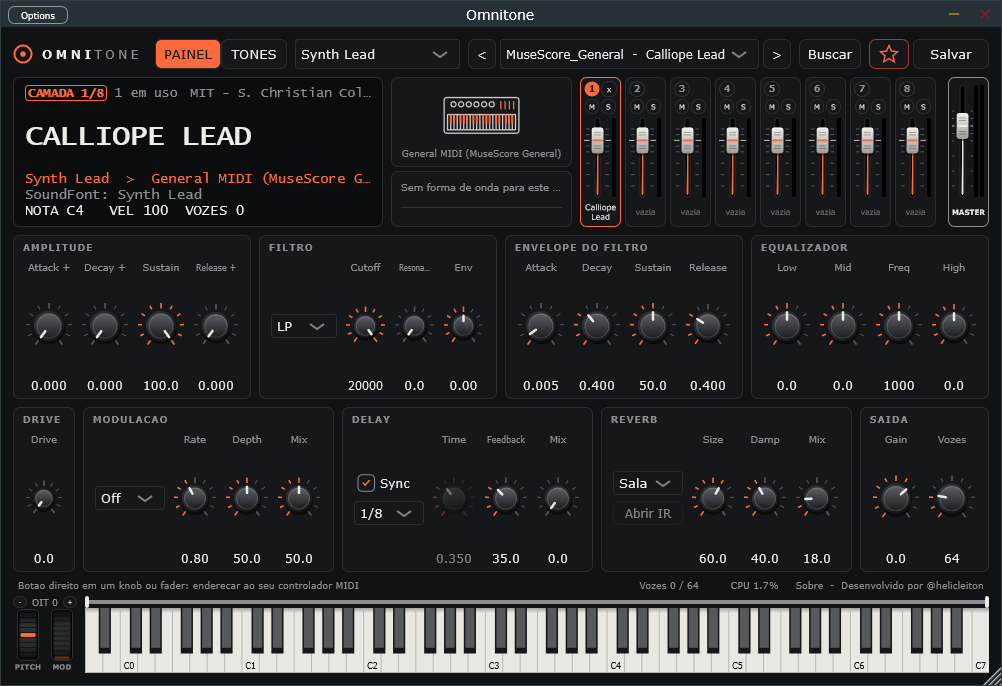
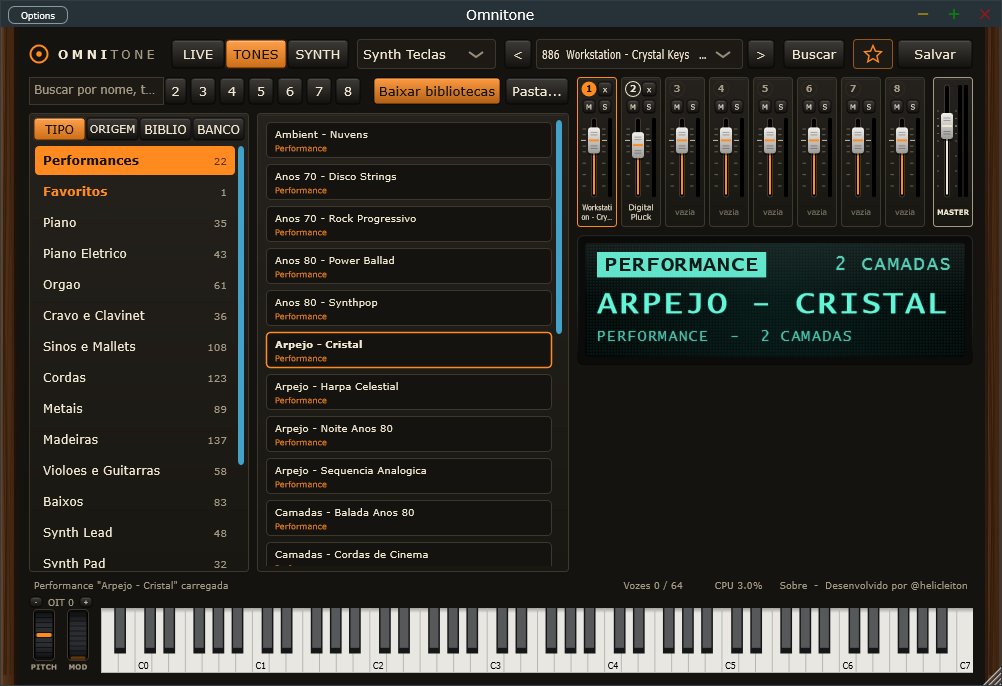
Pagina: recursos atuais (arpejador, performances tematicas, visor, bancos) e nova captura

diff --git a/docs/index.html b/docs/index.html
@@ -4,7 +4,7 @@
 <meta charset="utf-8">
 <meta name="viewport" content="width=device-width, initial-scale=1">
 <title>Omnitone - sampler e sintetizador gratuito</title>
-<meta name="description" content="Omnitone: instrumento virtual gratuito e proprietario para Windows, com camadas, splits, sintese FM, orgao de tonewheels, analogico virtual, SFZ e SoundFont.">
+<meta name="description" content="Omnitone: instrumento virtual gratuito e proprietario para Windows, com 8 camadas, arpejador, sintese FM, orgao de tonewheels, analogico virtual e SFZ.">
 <link rel="icon" type="image/png" href="icon.png">
 <style>
   :root { --bg:#111214; --panel:#16171a; --edge:#2a2c31; --text:#ecebe8; --dim:#8a8d93; --accent:#ff6a3d; }
@@ -109,7 +109,7 @@
 
 <section class="hero">
   <h1>Um instrumento, <em>muitos teclados</em>.</h1>
-  <p class="lead">O Omnitone e um sampler e sintetizador proprietario para Windows, gratuito hoje e para sempre. Abra direto no LIVE, carregue timbres e performances em 12 slots, empilhe ate 8 camadas, divida o teclado e explore dez motores de som, demos musicais, SFZ e SoundFonts.</p>
+  <p class="lead">O Omnitone e um sampler e sintetizador proprietario para Windows, gratuito hoje e para sempre. Abra direto no LIVE, carregue timbres e performances em 12 slots, empilhe ate 8 camadas, ligue o arpejador e explore dez motores de som, mais de 20 performances tematicas e bibliotecas SFZ.</p>
   <div class="cta">
     <a class="btn primary" href="https://github.com/helicleiton/Omnitone/releases/latest/download/Omnitone-Setup.exe">Baixar instalador para Windows</a>
     <a class="btn" href="https://helicleiton.github.io/Omnitone/web/">Experimentar versao Web</a>
@@ -117,7 +117,7 @@
     <a class="btn" href="#instalar">Como instalar</a>
   </div>
   <p class="note">Versao 0.3.5 &middot; Windows 10 e 11 de 64 bits &middot; Android 8 ou superior (beta) &middot; aplicativo e plugin VST3 &middot; sempre gratuito</p>
-  <div class="shot"><img src="screenshot.png" alt="Tela principal do Omnitone: visor, mesa de 8 camadas com faders e VUs, controles de timbre e teclado"></div>
+  <div class="shot"><img src="screenshot.png" alt="Tela TONES do Omnitone: lista de performances, mesa de 8 camadas com faders e VUs, visor de teclado antigo e teclado"></div>
 
   <div class="contact" id="contato">
     <h3>Receba as novidades do Omnitone</h3>
@@ -146,33 +146,32 @@
 
 <h2 id="recursos">Recursos</h2>
 <div class="grid">
-  <div class="card"><h3>8 camadas e splits</h3><p>Cada camada tem volume, mute, solo, VU, faixa de teclas e oitava. Monte um baixo na mao esquerda e um piano na direita, ou empilhe pads.</p></div>
+  <div class="card"><h3>8 camadas</h3><p>Cada camada tem volume, mute, solo, VU e oitava. Empilhe pianos, cordas e pads para criar sons enormes.</p></div>
   <div class="card"><h3>LIVE com 12 slots</h3><p>A tela inicial e um banco de palco retro. Cada slot carrega um tone ou uma performance de fabrica ou sua; as atribuicoes ficam salvas no computador.</p></div>
-  <div class="card"><h3>Dez motores de som</h3><p>SFZ, SoundFont, FM, tonewheel e analógico virtual; agora também wavetable com morph, cordas Karplus–Strong, granular, síntese aditiva e bateria sintetizada.</p></div>
-  <div class="card"><h3>Mapa de teclas</h3><p>Ao selecionar um instrumento SFZ, as teclas com zonas validas ficam destacadas; a faixa respeita o split da camada selecionada.</p></div>
+  <div class="card"><h3>Dez motores de som</h3><p>SFZ, FM, tonewheel e analógico virtual; também wavetable com morph, cordas Karplus–Strong, granular, síntese aditiva e bateria sintetizada.</p></div>
+  <div class="card"><h3>Arpejador</h3><p>Segure um acorde e as notas tocam uma a uma no tempo do BPM: sobe, desce, sobe e desce, aleatorio ou como tocado, de 1 a 4 oitavas, com Hold.</p></div>
   <div class="card"><h3>Controles por timbre</h3><p>Envelope, filtro multimodo com envelope proprio, equalizador de 3 bandas, drive e modulacao (chorus, phaser, tremolo, caixa rotativa) em cada camada.</p></div>
   <div class="card"><h3>Delay e reverb</h3><p>Delay sincronizado ao BPM da DAW ou ao BPM ajustável no Standalone, ou em modo livre. Reverb algoritmico ou por convolucao e limitador na saida.</p></div>
-  <div class="card"><h3>Tones e Performances</h3><p>Salve ajustes de timbre ou combinacoes de camadas. Favoritos, busca (Ctrl+F), preview antes de carregar, biblioteca por categoria/origem e marcacao de teclas.</p></div>
-  <div class="card"><h3>DEMO musical</h3><p>Veja os timbres usados em Noite Neon, Domingo, Horizonte e Garagem; clique numa faixa para carregar o som correspondente.</p></div>
+  <div class="card"><h3>Tones numerados em bancos</h3><p>Cada timbre tem numero (001, 002...) e fica em bancos de 128, como num teclado. Clique duplo carrega; o play ouve antes. Favoritos e busca (Ctrl+F).</p></div>
+  <div class="card"><h3>Performances tematicas</h3><p>Mais de 20 combinacoes prontas: anos 70 e 80, igreja, gospel, jazz, cinema, ambient, Natal, oriental e arpejos. Salve as suas tambem.</p></div>
   <div class="card"><h3>Feito para tocar</h3><p>Controladores MIDI funcionam ao conectar. Enderece knobs e faders do seu teclado com um clique. Rodas de pitch bend e modulacao.</p></div>
   <div class="card"><h3>Baixa latencia</h3><p>Usa os modos de baixa latencia e exclusivo do Windows Audio, sem instalar driver nenhum.</p></div>
   <div class="card"><h3>Navegacao por origem</h3><p>Os timbres sao organizados como em um teclado, por familia de instrumento (Piano, Orgao, Cordas, Synth Lead...), e tambem pelo teclado em que se inspiram.</p></div>
-  <div class="card"><h3>Performance e producao</h3><p>Delay sincronizado ao BPM da DAW ou do app, reverb algoritmico/convolucao, seccoes SYNTH recolhiveis, mapa das 8 camadas e carregamento de SoundFont em segundo plano.</p></div>
+  <div class="card"><h3>Visor de teclado antigo</h3><p>Um visor fluorescente mostra se voce esta num TONE ou numa PERFORMANCE, com nome e categoria. Cada timbre entra com as proprias configuracoes.</p></div>
 </div>
 
 <h2 id="timbres">Timbres</h2>
 <table>
   <tr><th>O que</th><th>Como chega</th><th>Detalhes</th></tr>
-  <tr><td>Timbres de fabrica</td><td>Ja vem no app</td><td>Mais de 160 timbres sem samples externos, em dez motores: analogicos, tonewheel, FM, wavetable, Karplus-Strong, granular, aditivo e bateria sintetizada, alem de SFZ. Inclui a colecao Timbres Famosos, teclados lendarios e 12 Performances prontas.</td></tr>
-  <tr><td>Bibliotecas gratuitas</td><td>Um clique no app</td><td>O botao <b>Baixar bibliotecas</b> traz pianos de cauda, piano eletrico, orquestra completa, baterias acusticas, saxofones, guitarras, baixos e um General MIDI inteiro. Sao baixadas do site de cada autor; algumas tem varios GB.</td></tr>
+  <tr><td>Timbres de fabrica</td><td>Ja vem no app</td><td>Mais de 160 timbres sem samples externos, em dez motores: analogicos, tonewheel, FM, wavetable, Karplus-Strong, granular, aditivo e bateria sintetizada, alem de SFZ. Inclui a colecao Timbres Famosos, teclados lendarios e 22 Performances prontas.</td></tr>
+  <tr><td>Bibliotecas gratuitas</td><td>Um clique no app</td><td>O botao <b>Baixar bibliotecas</b> traz pianos de cauda, piano eletrico, orquestra completa, baterias acusticas, saxofones, guitarras, baixos e mais. Sao baixadas do site de cada autor; algumas tem varios GB.</td></tr>
   <tr><td>Bibliotecas SFZ</td><td>Voce instala</td><td>Qualquer instrumento em SFZ: pianos, orquestra, baterias, guitarras. Ha varias bibliotecas livres, como VCSL, VSCO 2 e Salamander Grand Piano.</td></tr>
-  <tr><td>SoundFonts</td><td>Voce instala</td><td>Arquivos .sf2: cada preset vira um timbre, classificado pela familia do General MIDI.</td></tr>
   <tr><td>Bancos FM</td><td>Voce instala</td><td>Bancos .syx de 32 vozes no formato DX7 e colecoes de vozes de 4 operadores no formato Reface DX.</td></tr>
 </table>
-<p class="note">O Omnitone nao distribui bibliotecas de amostras, SoundFonts, bancos de vozes nem fotos de terceiros. Cada um tem a sua licenca.</p>
+<p class="note">O Omnitone nao distribui bibliotecas de amostras, bancos de vozes nem fotos de terceiros. Cada um tem a sua licenca.</p>
 
 <h2 id="demos">Demos</h2>
-<p>Quatro composicoes originais feitas so com timbres que ja vem no Omnitone. Na aba <b>DEMO</b> do app, cada faixa identifica o tone usado e permite carrega-lo; a pagina tambem permite ouvir a mix e ajustar canais.</p>
+<p>Quatro composicoes originais feitas so com timbres que ja vem no Omnitone. Ouca a mix ou ajuste cada canal para escutar os timbres separadamente.</p>
 <div class="demos" id="lista-demos"></div>
 <p class="note">As demos sao composicoes originais, tocadas e mixadas pelo proprio Omnitone, sem amostras nem efeitos de fora.</p>
 
